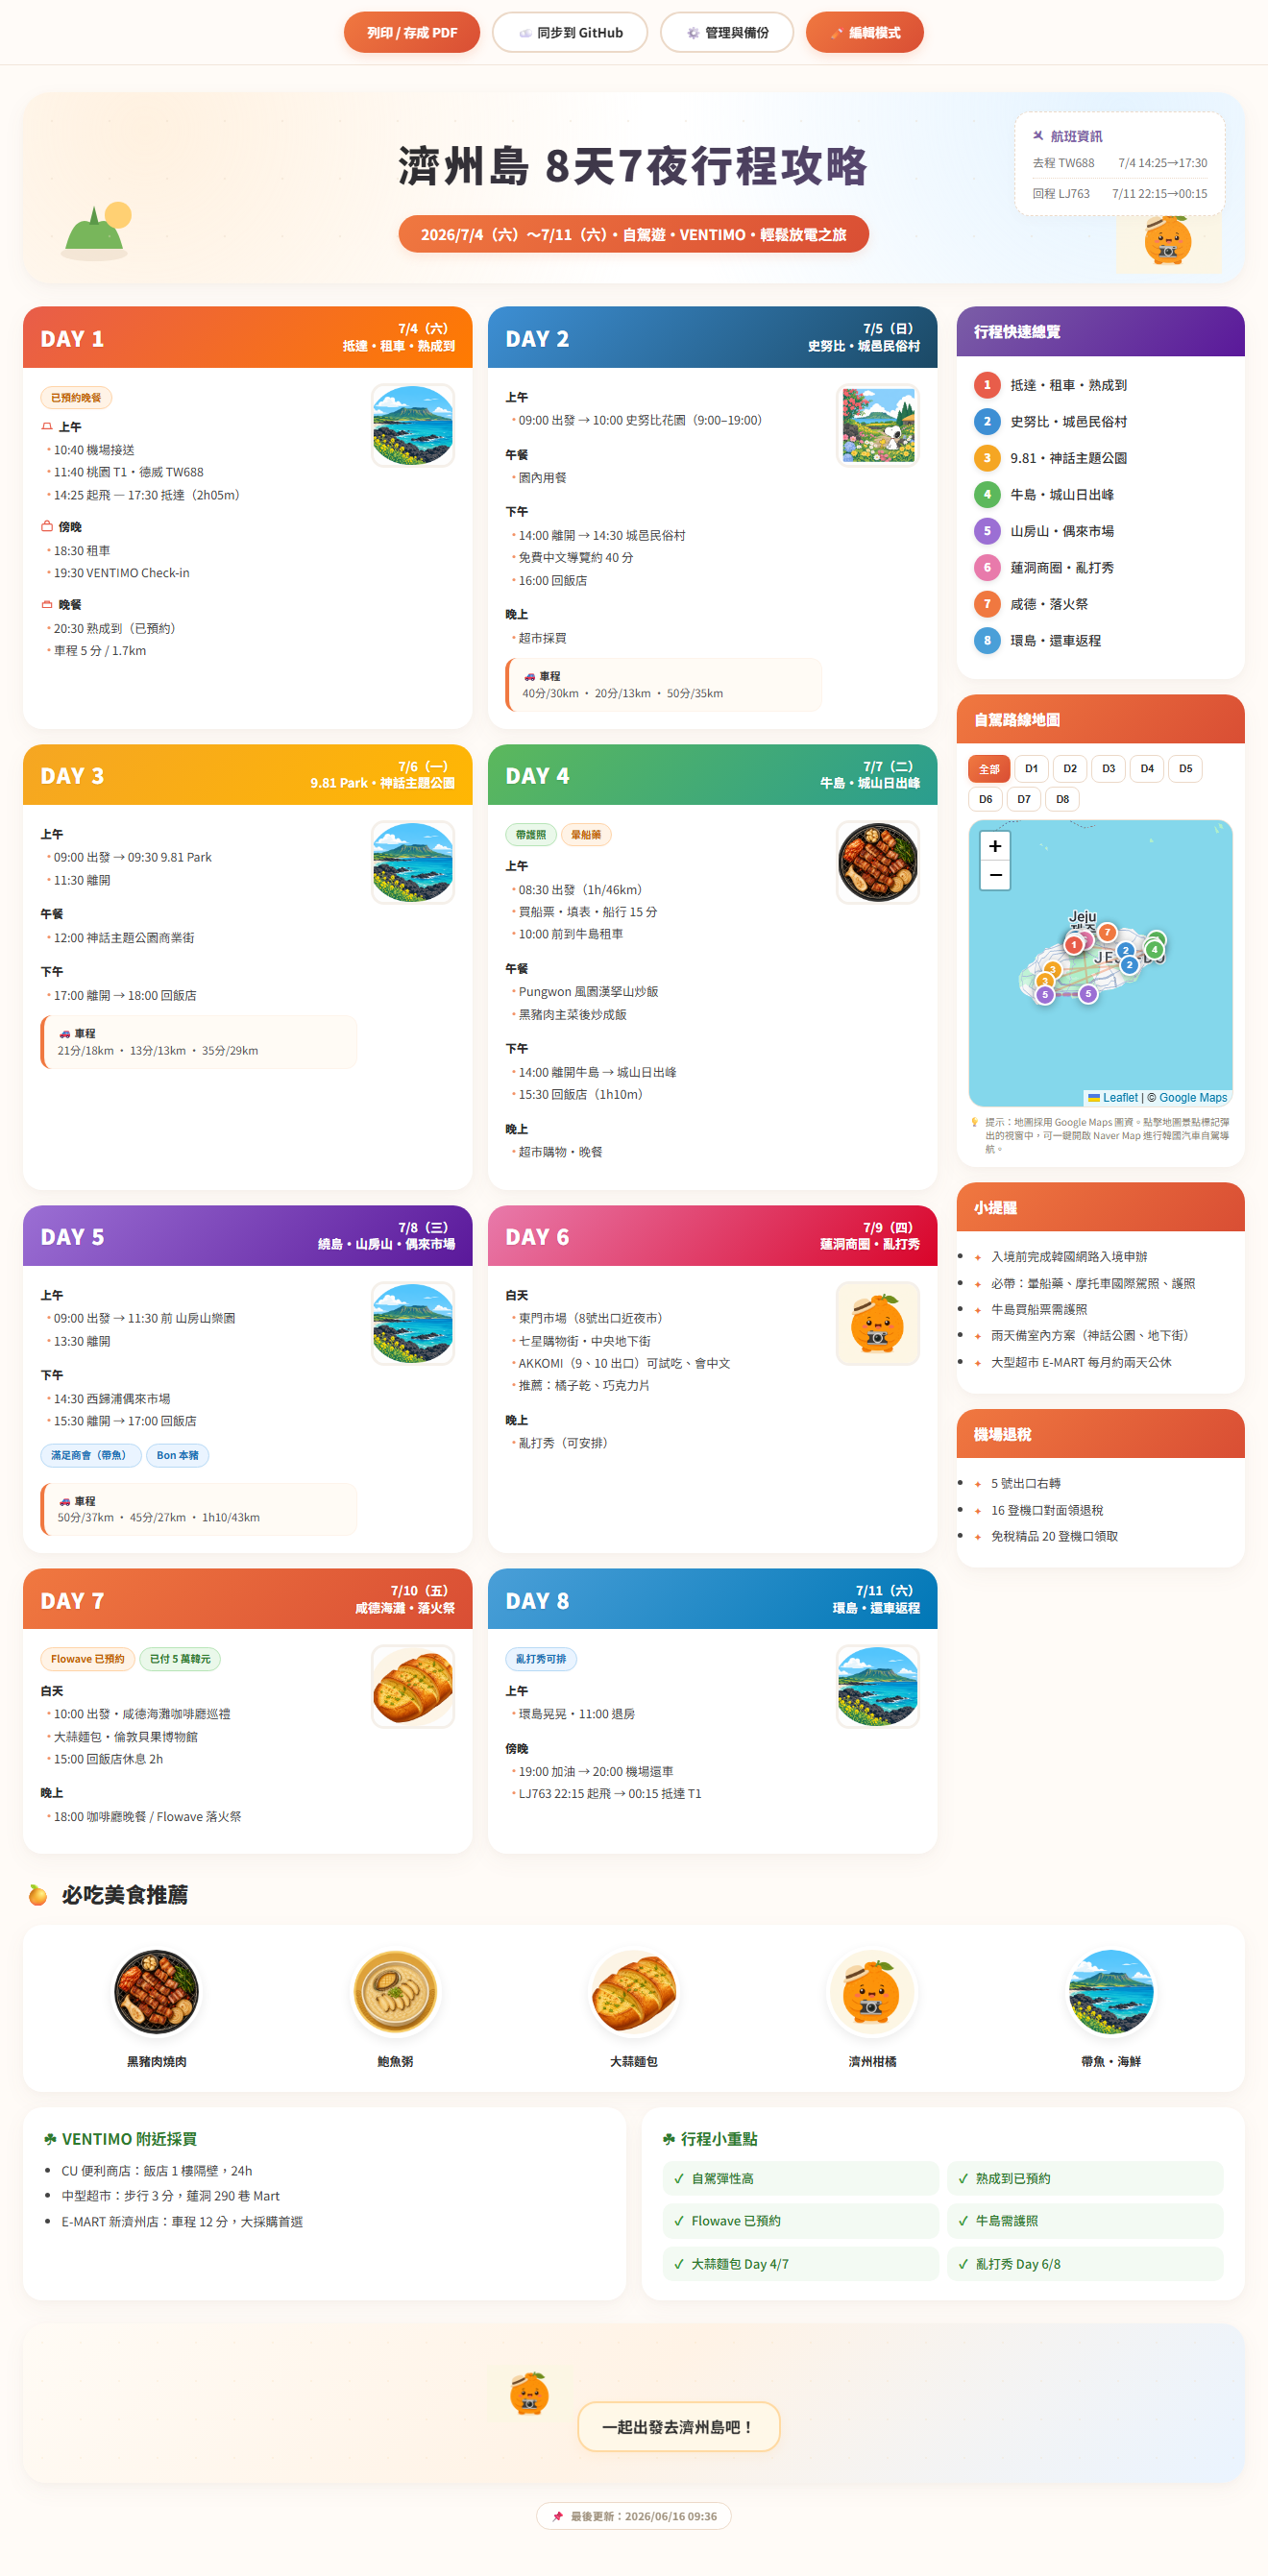
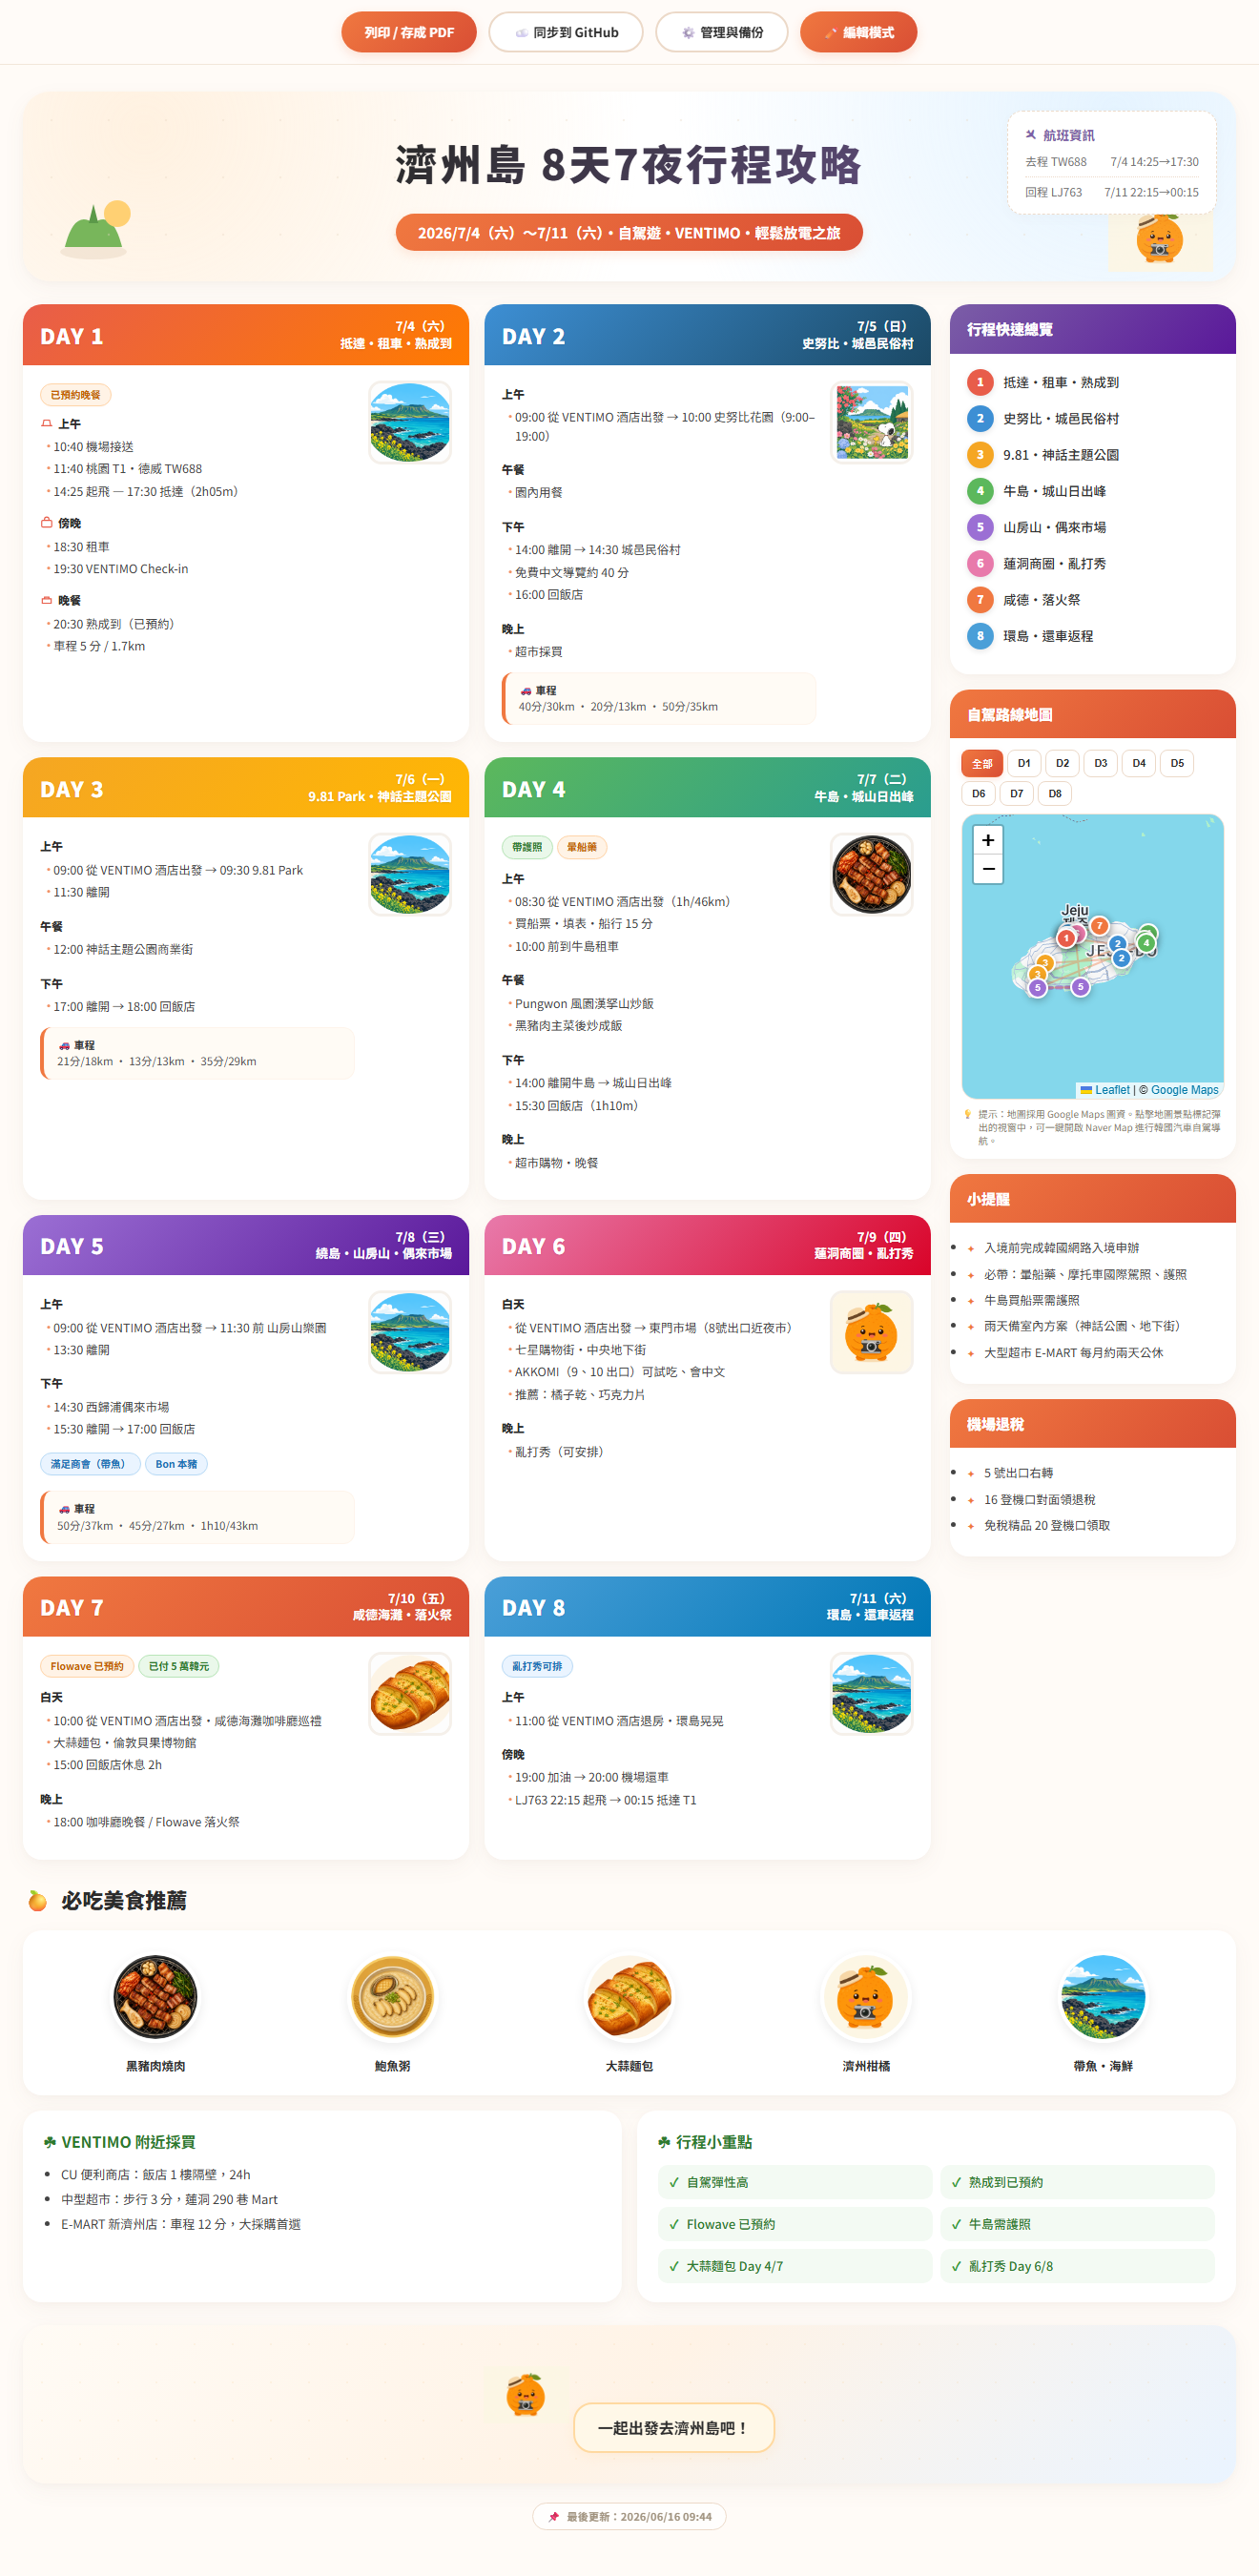
chore: adjust Day 2-8 start point to VENTIMO Hotel and add auto migration (v1.8.1)

diff --git a/index.html b/index.html
@@ -750,7 +750,7 @@
           <div class="day-body">
             <div>
               <div class="slot"><div class="slot-label">上午</div>
-                <ul><li>09:00 出發 → 10:00 史努比花園（9:00–19:00）</li></ul></div>
+                <ul><li>09:00 從 VENTIMO 酒店出發 → 10:00 史努比花園（9:00–19:00）</li></ul></div>
               <div class="slot"><div class="slot-label">午餐</div><ul><li>園內用餐</li></ul></div>
               <div class="slot"><div class="slot-label">下午</div>
                 <ul><li>14:00 離開 → 14:30 城邑民俗村</li><li>免費中文導覽約 40 分</li><li>16:00 回飯店</li></ul></div>
@@ -769,7 +769,7 @@
           <div class="day-body">
             <div>
               <div class="slot"><div class="slot-label">上午</div>
-                <ul><li>09:00 出發 → 09:30 9.81 Park</li><li>11:30 離開</li></ul></div>
+                <ul><li>09:00 從 VENTIMO 酒店出發 → 09:30 9.81 Park</li><li>11:30 離開</li></ul></div>
               <div class="slot"><div class="slot-label">午餐</div><ul><li>12:00 神話主題公園商業街</li></ul></div>
               <div class="slot"><div class="slot-label">下午</div><ul><li>17:00 離開 → 18:00 回飯店</li></ul></div>
               <div class="drive"><strong>車程</strong><br/>21分/18km · 13分/13km · 35分/29km</div>
@@ -787,7 +787,7 @@
             <div>
               <span class="tag green">帶護照</span><span class="tag">暈船藥</span>
               <div class="slot"><div class="slot-label">上午</div>
-                <ul><li>08:30 出發（1h/46km）</li><li>買船票・填表・船行 15 分</li><li>10:00 前到牛島租車</li></ul></div>
+                <ul><li>08:30 從 VENTIMO 酒店出發（1h/46km）</li><li>買船票・填表・船行 15 分</li><li>10:00 前到牛島租車</li></ul></div>
               <div class="slot"><div class="slot-label">午餐</div>
                 <ul><li>Pungwon 風園漢拏山炒飯</li><li>黑豬肉主菜後炒成飯</li></ul></div>
               <div class="slot"><div class="slot-label">下午</div>
@@ -806,7 +806,7 @@
           <div class="day-body">
             <div>
               <div class="slot"><div class="slot-label">上午</div>
-                <ul><li>09:00 出發 → 11:30 前 山房山樂園</li><li>13:30 離開</li></ul></div>
+                <ul><li>09:00 從 VENTIMO 酒店出發 → 11:30 前 山房山樂園</li><li>13:30 離開</li></ul></div>
               <div class="slot"><div class="slot-label">下午</div>
                 <ul><li>14:30 西歸浦偶來市場</li><li>15:30 離開 → 17:00 回飯店</li></ul></div>
               <span class="tag blue">滿足商會（帶魚）</span><span class="tag blue">Bon 本豬</span>
@@ -824,7 +824,7 @@
           <div class="day-body">
             <div>
               <div class="slot"><div class="slot-label">白天</div>
-                <ul><li>東門市場（8號出口近夜市）</li><li>七星購物街・中央地下街</li><li>AKKOMI（9、10 出口）可試吃、會中文</li><li>推薦：橘子乾、巧克力片</li></ul></div>
+                <ul><li>從 VENTIMO 酒店出發 → 東門市場（8號出口近夜市）</li><li>七星購物街・中央地下街</li><li>AKKOMI（9、10 出口）可試吃、會中文</li><li>推薦：橘子乾、巧克力片</li></ul></div>
               <div class="slot"><div class="slot-label">晚上</div><ul><li>亂打秀（可安排）</li></ul></div>
             </div>
             <img class="day-photo" src="assets/hallabong-mascot.png" alt="蓮洞" />
@@ -840,7 +840,7 @@
             <div>
               <span class="tag">Flowave 已預約</span><span class="tag green">已付 5 萬韓元</span>
               <div class="slot"><div class="slot-label">白天</div>
-                <ul><li>10:00 出發・咸德海灘咖啡廳巡禮</li><li>大蒜麵包・倫敦貝果博物館</li><li>15:00 回飯店休息 2h</li></ul></div>
+                <ul><li>10:00 從 VENTIMO 酒店出發・咸德海灘咖啡廳巡禮</li><li>大蒜麵包・倫敦貝果博物館</li><li>15:00 回飯店休息 2h</li></ul></div>
               <div class="slot"><div class="slot-label">晚上</div>
                 <ul><li>18:00 咖啡廳晚餐 / Flowave 落火祭</li></ul></div>
             </div>
@@ -857,7 +857,7 @@
             <div>
               <span class="tag blue">亂打秀可排</span>
               <div class="slot"><div class="slot-label">上午</div>
-                <ul><li>環島晃晃・11:00 退房</li></ul></div>
+                <ul><li>11:00 從 VENTIMO 酒店退房・環島晃晃</li></ul></div>
               <div class="slot"><div class="slot-label">傍晚</div>
                 <ul><li>19:00 加油 → 20:00 機場還車</li><li>LJ763 22:15 起飛 → 00:15 抵達 T1</li></ul></div>
             </div>
@@ -1068,7 +1068,7 @@
           title: '史努比・城邑民俗村',
           tags: [],
           slots: [
-            { label: '上午', items: ['09:00 出發 → 10:00 史努比花園（9:00–19:00）'] },
+            { label: '上午', items: ['09:00 從 VENTIMO 酒店出發 → 10:00 史努比花園（9:00–19:00）'] },
             { label: '午餐', items: ['園內用餐'] },
             { label: '下午', items: ['14:00 離開 → 14:30 城邑民俗村', '免費中文導覽約 40 分', '16:00 回飯店'] },
             { label: '晚上', items: ['超市採買'] }
@@ -1080,7 +1080,7 @@
           title: '9.81 Park・神話主題公園',
           tags: [],
           slots: [
-            { label: '上午', items: ['09:00 出發 → 09:30 9.81 Park', '11:30 離開'] },
+            { label: '上午', items: ['09:00 從 VENTIMO 酒店出發 → 09:30 9.81 Park', '11:30 離開'] },
             { label: '午餐', items: ['12:00 神話主題公園商業街'] },
             { label: '下午', items: ['17:00 離開 → 18:00 回飯店'] }
           ],
@@ -1094,7 +1094,7 @@
             { text: '暈船藥', type: '' }
           ],
           slots: [
-            { label: '上午', items: ['08:30 出發（1h/46km）', '買船票・填表・船行 15 分', '10:00 前到牛島租車'] },
+            { label: '上午', items: ['08:30 從 VENTIMO 酒店出發（1h/46km）', '買船票・填表・船行 15 分', '10:00 前到牛島租車'] },
             { label: '午餐', items: ['Pungwon 風園漢拏山炒飯', '黑豬肉主菜後炒成飯'] },
             { label: '下午', items: ['14:00 離開牛島 → 城山日出峰', '15:30 回飯店（1h10m）'] },
             { label: '晚上', items: ['超市購物・晚餐'] }
@@ -1109,7 +1109,7 @@
             { text: 'Bon 本豬', type: 'blue' }
           ],
           slots: [
-            { label: '上午', items: ['09:00 出發 → 11:30 前 山房山樂園', '13:30 離開'] },
+            { label: '上午', items: ['09:00 從 VENTIMO 酒店出發 → 11:30 前 山房山樂園', '13:30 離開'] },
             { label: '下午', items: ['14:30 西歸浦偶來市場', '15:30 離開 → 17:00 回飯店'] }
           ],
           drive: '50分/37km · 45分/27km · 1h10/43km'
@@ -1119,7 +1119,7 @@
           title: '蓮洞商圈・亂打秀',
           tags: [],
           slots: [
-            { label: '白天', items: ['東門市場（8號出口近夜市）', '七星購物街・中央地下街', 'AKKOMI（9、10 出口）可試吃、會中文', '推薦：橘子乾、巧克力片'] },
+            { label: '白天', items: ['從 VENTIMO 酒店出發 → 東門市場（8號出口近夜市）', '七星購物街・中央地下街', 'AKKOMI（9、10 出口）可試吃、會中文', '推薦：橘子乾、巧克力片'] },
             { label: '晚上', items: ['亂打秀（可安排）'] }
           ],
           drive: ''
@@ -1132,7 +1132,7 @@
             { text: '已付 5 萬韓元', type: 'green' }
           ],
           slots: [
-            { label: '白天', items: ['10:00 出發・咸德海灘咖啡廳巡禮', '大蒜麵包・倫敦貝果博物館', '15:00 回飯店休息 2h'] },
+            { label: '白天', items: ['10:00 從 VENTIMO 酒店出發・咸德海灘咖啡廳巡禮', '大蒜麵包・倫敦貝果博物館', '15:00 回飯店休息 2h'] },
             { label: '晚上', items: ['18:00 咖啡廳晚餐 / Flowave 落火祭'] }
           ],
           drive: ''
@@ -1144,7 +1144,7 @@
             { text: '亂打秀可排', type: 'blue' }
           ],
           slots: [
-            { label: '上午', items: ['環島晃晃・11:00 退房'] },
+            { label: '上午', items: ['11:00 從 VENTIMO 酒店退房・環島晃晃'] },
             { label: '傍晚', items: ['19:00 加油 → 20:00 機場還車', 'LJ763 22:15 起飛 → 00:15 抵達 T1'] }
           ],
           drive: ''
@@ -1265,11 +1265,115 @@
         }
       };
 
+      // === 歷史數據自動升級 ===
+      function upgradeLegacyEdits(edits) {
+        var upgraded = false;
+        
+        // Day 2
+        if (edits.day2 && edits.day2.slots) {
+          edits.day2.slots.forEach(function(slot) {
+            if (slot.label === '上午' && slot.items) {
+              slot.items.forEach(function(item, idx) {
+                if (item.indexOf('09:00 出發 →') === 0) {
+                  slot.items[idx] = item.replace('09:00 出發 →', '09:00 從 VENTIMO 酒店出發 →');
+                  upgraded = true;
+                }
+              });
+            }
+          });
+        }
+        // Day 3
+        if (edits.day3 && edits.day3.slots) {
+          edits.day3.slots.forEach(function(slot) {
+            if (slot.label === '上午' && slot.items) {
+              slot.items.forEach(function(item, idx) {
+                if (item.indexOf('09:00 出發 →') === 0) {
+                  slot.items[idx] = item.replace('09:00 出發 →', '09:00 從 VENTIMO 酒店出發 →');
+                  upgraded = true;
+                }
+              });
+            }
+          });
+        }
+        // Day 4
+        if (edits.day4 && edits.day4.slots) {
+          edits.day4.slots.forEach(function(slot) {
+            if (slot.label === '上午' && slot.items) {
+              slot.items.forEach(function(item, idx) {
+                if (item.indexOf('08:30 出發') === 0 && item.indexOf('VENTIMO') === -1) {
+                  slot.items[idx] = item.replace('08:30 出發', '08:30 從 VENTIMO 酒店出發');
+                  upgraded = true;
+                }
+              });
+            }
+          });
+        }
+        // Day 5
+        if (edits.day5 && edits.day5.slots) {
+          edits.day5.slots.forEach(function(slot) {
+            if (slot.label === '上午' && slot.items) {
+              slot.items.forEach(function(item, idx) {
+                if (item.indexOf('09:00 出發 →') === 0) {
+                  slot.items[idx] = item.replace('09:00 出發 →', '09:00 從 VENTIMO 酒店出發 →');
+                  upgraded = true;
+                }
+              });
+            }
+          });
+        }
+        // Day 6
+        if (edits.day6 && edits.day6.slots) {
+          edits.day6.slots.forEach(function(slot) {
+            if (slot.label === '白天' && slot.items) {
+              if (slot.items.length > 0 && slot.items[0].indexOf('東門市場') === 0) {
+                slot.items[0] = '從 VENTIMO 酒店出發 → ' + slot.items[0];
+                upgraded = true;
+              }
+            }
+          });
+        }
+        // Day 7
+        if (edits.day7 && edits.day7.slots) {
+          edits.day7.slots.forEach(function(slot) {
+            if (slot.label === '白天' && slot.items) {
+              slot.items.forEach(function(item, idx) {
+                if (item.indexOf('10:00 出發') === 0 && item.indexOf('VENTIMO') === -1) {
+                  slot.items[idx] = item.replace('10:00 出發', '10:00 從 VENTIMO 酒店出發');
+                  upgraded = true;
+                }
+              });
+            }
+          });
+        }
+        // Day 8
+        if (edits.day8 && edits.day8.slots) {
+          edits.day8.slots.forEach(function(slot) {
+            if (slot.label === '上午' && slot.items) {
+              slot.items.forEach(function(item, idx) {
+                if (item.indexOf('環島晃晃・11:00 退房') === 0) {
+                  slot.items[idx] = '11:00 從 VENTIMO 酒店退房・環島晃晃';
+                  upgraded = true;
+                }
+              });
+            }
+          });
+        }
+
+        if (upgraded) {
+          localStorage.setItem(STORAGE_KEY, JSON.stringify(edits));
+        }
+        return edits;
+      }
+
       // === 工具函數 ===
       function getSavedEdits() {
         try {
           var data = localStorage.getItem(STORAGE_KEY);
-          return data ? JSON.parse(data) : {};
+          var edits = data ? JSON.parse(data) : {};
+          if (edits && Object.keys(edits).length > 0) {
+            edits = upgradeLegacyEdits(edits);
+          }
+          return edits;
         } catch(e) { return {}; }
       }
 

diff --git a/PLAN.md b/PLAN.md
@@ -463,5 +463,5 @@ hotfix/緊急修復       - 緊急修復
 ---
 
 **最後更新**: 2026/06/16  
-**版本**: v1.8 - 實作自訂圖片拖曳與上傳功能（Canvas 70% 品質等比例 800px 高效壓縮版）  
+**版本**: v1.8.1 - 調整 Day 2 ~ Day 8 預設出發地為 VENTIMO 酒店，並實作存檔自動遷移機制  
 **狀態**: 🟡 第一階段核心功能開發完成（全部核心功能已完成，進入第二階段 UX 優化）